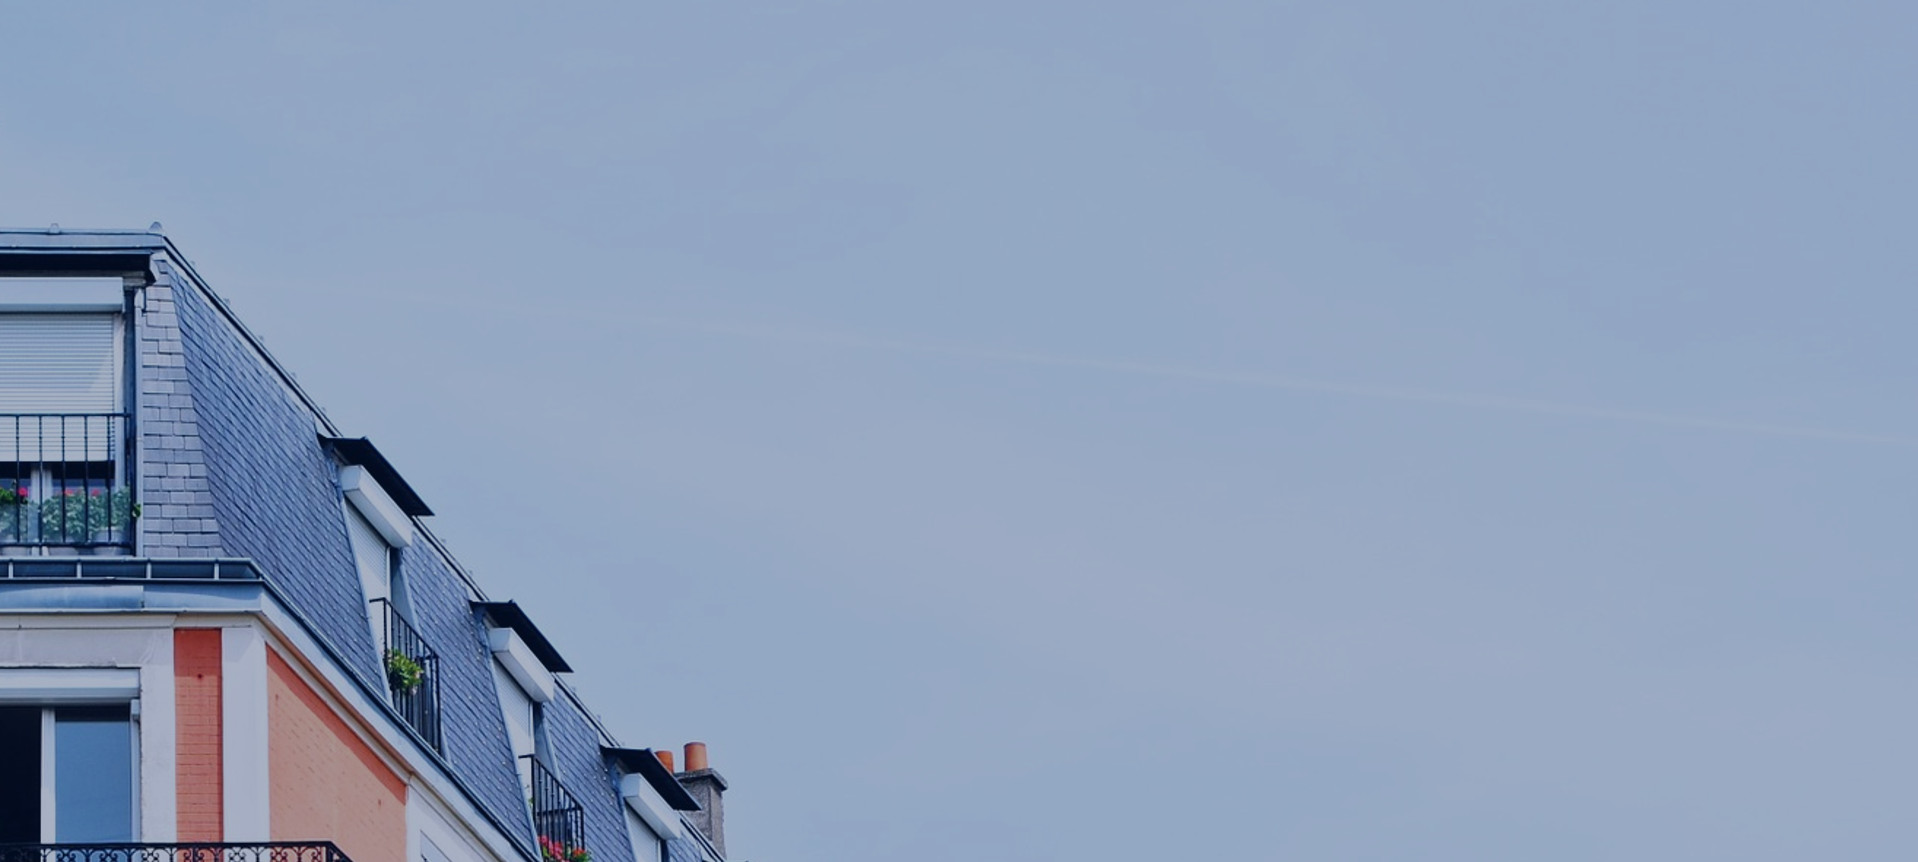
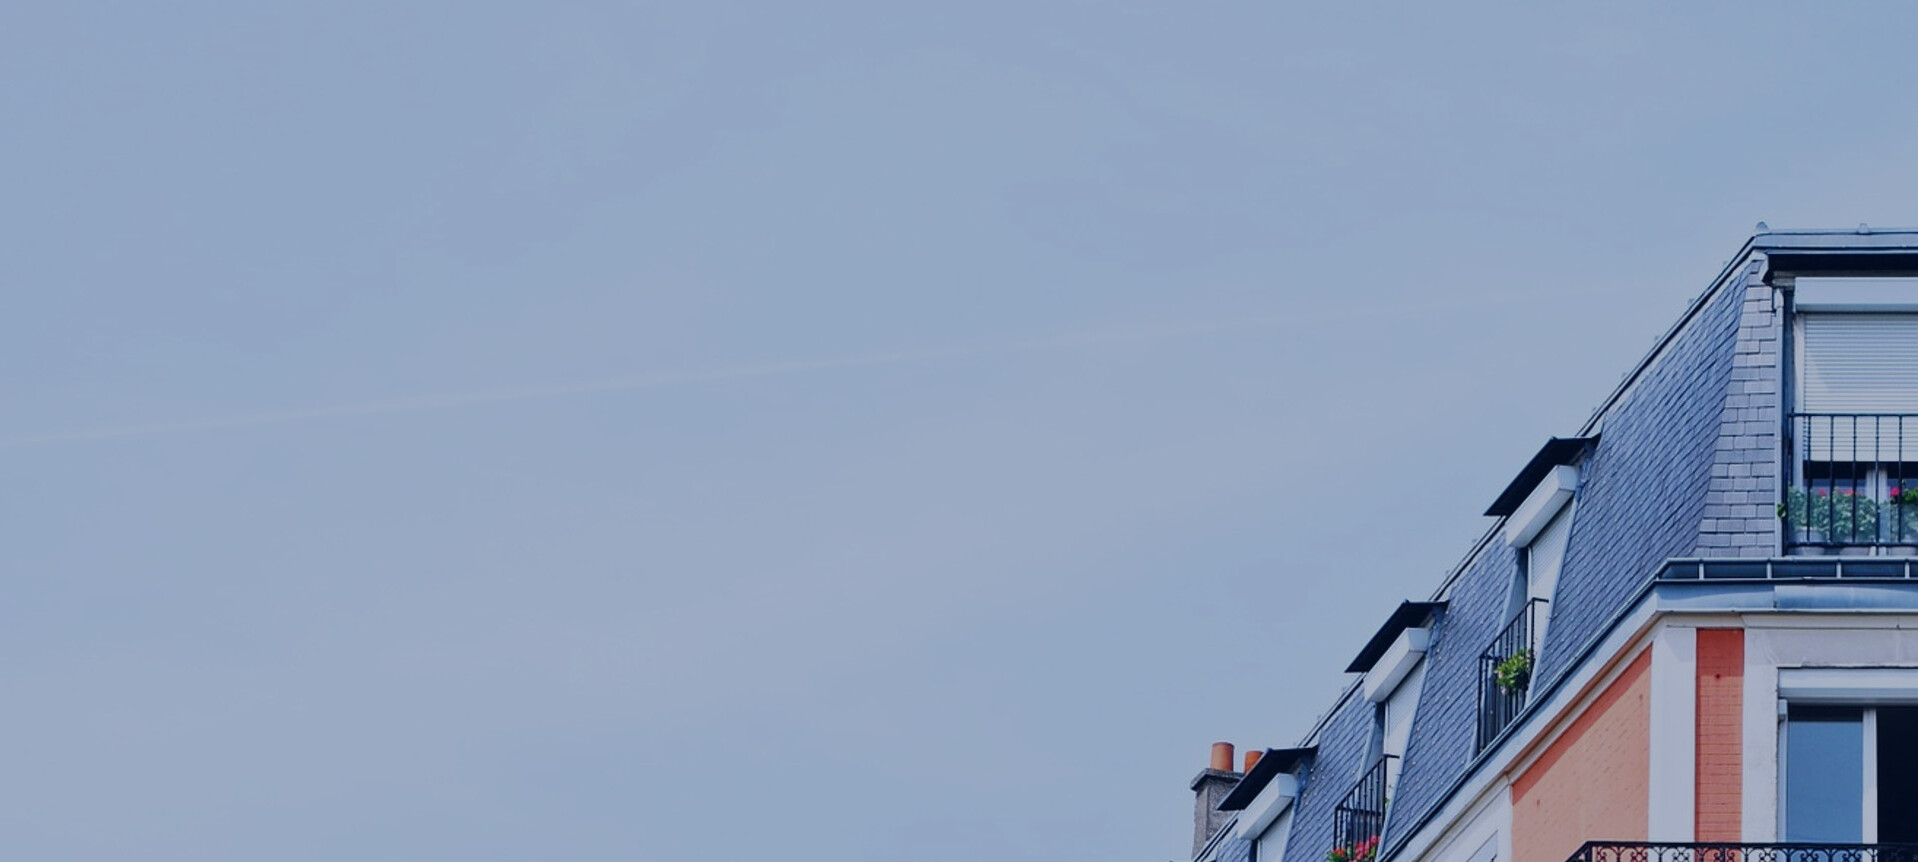
feat(landing): fix first section style

Changed region(s): [[0.6152, 0.2413, 1.0, 1.0], [0.0, 0.2413, 0.3999, 1.0]]

diff --git a/main/src/views/LandingPage.vue b/main/src/views/LandingPage.vue
@@ -1,17 +1,21 @@
 <template>
   <div>
-    <section class="cover-features">
+    <section class="s1-background color--white rf-pd-2w rf-pb-5w">
       <div class="rf-container">
-        <div class="rf-grid-col">
-          <h1>
-            {{ $t("s0.title") }}
-          </h1>
-          <p>
-            {{ $t("s0.text") }}
-          </p>
-          <router-link to="/tenant">
-            {{ $t("s0.link") }}
-          </router-link>
+        <div class="rf-col-md-8">
+          <div class="rf-grid-col">
+            <h1 class="color--white">
+              {{ $t("s0.title") }}
+            </h1>
+            <p>
+              {{ $t("s0.text") }}
+            </p>
+            <p>
+              <router-link class="rf-btn" to="/tenant">
+                {{ $t("s0.link") }}
+              </router-link>
+            </p>
+          </div>
         </div>
       </div>
     </section>
@@ -117,9 +121,17 @@ export default class LandingPage extends Vue {}
 
 <!-- Add "scoped" attribute to limit CSS to this component only -->
 <style scoped lang="scss">
-/*     // <div class="background-image-holder">
-    //   <img alt="background" src="../assets/cover-features.jpg" />
-    // </div> */
+@import "df-shared/src/scss/_main.scss";
+
+.s1-background {
+  width: 100%;
+  top: 0;
+  left: 0;
+  background-size: cover !important;
+  background-position: 50% 50% !important;
+  background-image: url("../assets/cover-features.jpg");
+  z-index: 0;
+}
 </style>
 
 <i18n>

diff --git a/df-shared/src/scss/_main.scss b/df-shared/src/scss/_main.scss
@@ -19,6 +19,15 @@
   color: red;
 }
 
+.color--white {
+  color: white;
+}
+
 .icon--sm {
   font-size: 2.5rem;
+}
+
+.rf-grid-col {
+  display: flex;
+  flex-direction: column;
 }
